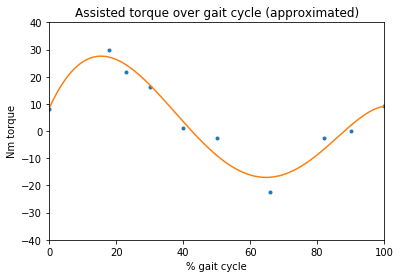
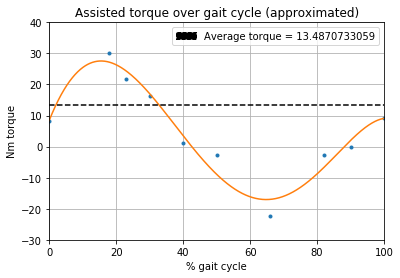
Updated plot colorscheme

diff --git a/AssistedTorqueApproximation.py b/AssistedTorqueApproximation.py
@@ -13,6 +13,8 @@ Created on Thu Feb 15 19:00:54 2018
 
 import numpy as np
 import matplotlib.pyplot as plt
+import matplotlib.patches as mpatches
+
     
 # Array containing x and y coordinates to use for fitting
 xdata = np.array([0,18,23,30,40,50,66,82,90,100])
@@ -23,7 +25,6 @@ ydata = ydataPreScale*54.54545454545454
 # 7th degree polynomial fitting
 fitted = np.polyfit(xdata,ydata,5)
 p = np.poly1d(fitted)
-
 
 # Setting the step precision for graphing
 xp = np.linspace(0,100,1000)
@@ -42,14 +43,21 @@ while (x<=100):
 average = sum/100000
 print(average)
 
+
 # Plotting
 # All given data points are points on graph
 # Interpolated fit is straight line
 # Higher degree polynomial is dotted line (usually wrong shape)
-plot = plt.plot(xdata,ydata,'.',xp,p(xp),'-')
+plot = plt.plot(xdata,ydata,'.', xp,p(xp), '-')
 plt.xlim(0,100)
-plt.ylim(-40,40)
+plt.ylim(-30,40)
 plt.xlabel('% gait cycle')
 plt.ylabel('Nm torque')
 plt.title('Assisted torque over gait cycle (approximated)')
+plt.axhline(y=average, color='k', linestyle='--')
+plt.grid()
+# Add legend in corner for average
+red_patch = mpatches.Patch(color='k', linestyle='--', 
+                           label='Average torque = 13.4870733059')
+plt.legend(handles=[red_patch])
 plt.show()
